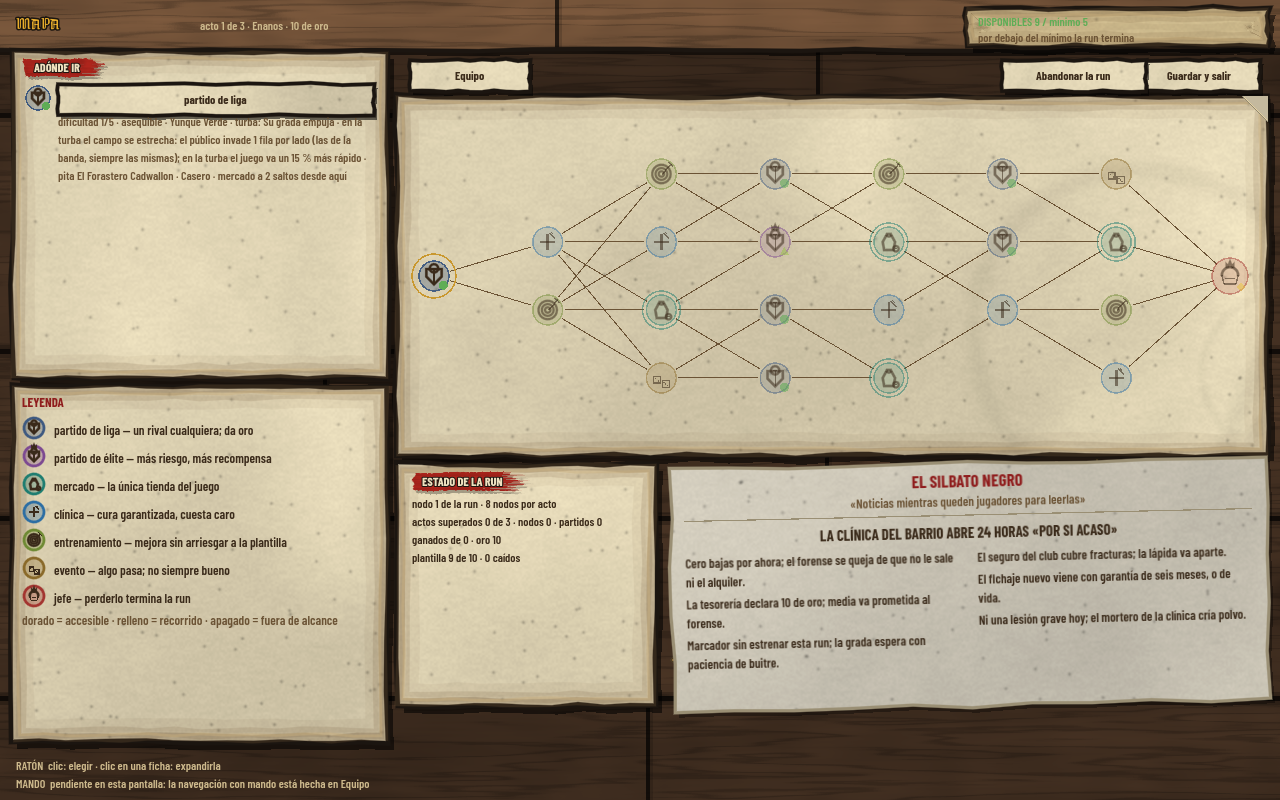
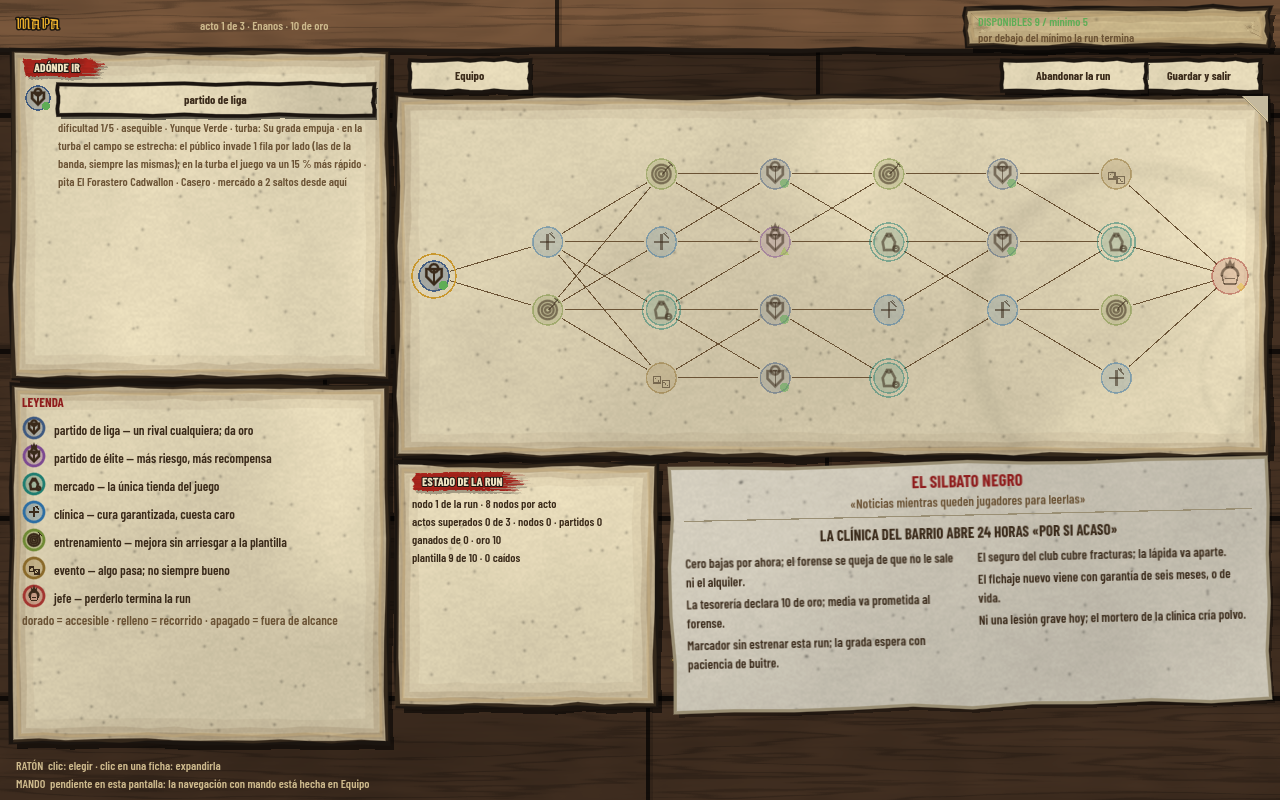
fix(game): el detalle del destino en el mapa ya no queda tapado por el marco del botón — RF-010
Claude-Session: https://claude.ai/code/session_01AQr5r97eKSSoLTrMCwntSb

Changed region(s): [[0.0312, 0.125, 0.2812, 0.25]]

diff --git a/Game/Screens/MapScreen.cs b/Game/Screens/MapScreen.cs
@@ -383,8 +383,10 @@ public partial class MapScreen : Control
 
             // El alto de la fila lo manda el detalle: un rival con nombre largo ocupa tres líneas y la
             // fila siguiente no puede montársele encima.
-            var detail = Widgets.Body(row, DetailOf(node), new Vector2(36f, 32f), 316f, Style.TextDim);
-            row.CustomMinimumSize = new Vector2(356f, 36f + detail.Size.Y);
+            // El marco de tinta del botón se pinta por fuera de su rectángulo: con el detalle a 32 px tapaba la primera
+            // línea (captura `mapa`, 11 oct 2026). Seis píxeles de aire.
+            var detail = Widgets.Body(row, DetailOf(node), new Vector2(36f, 38f), 316f, Style.TextDim);
+            row.CustomMinimumSize = new Vector2(356f, 42f + detail.Size.Y);
         }
     }
 
